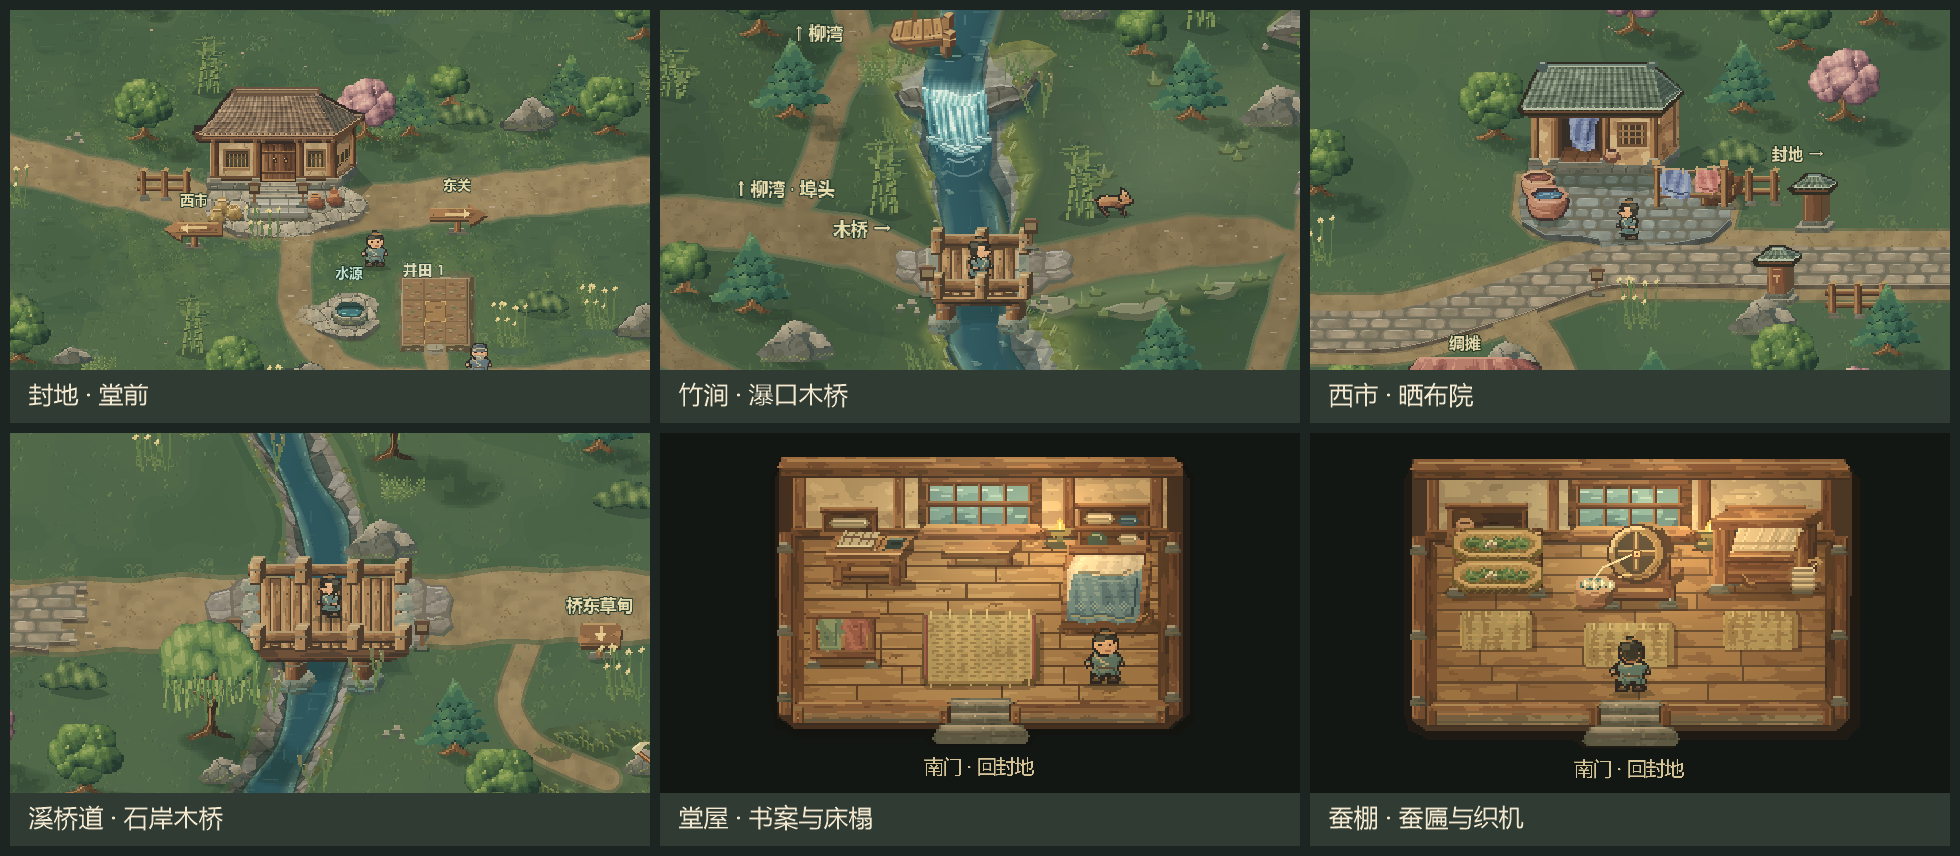
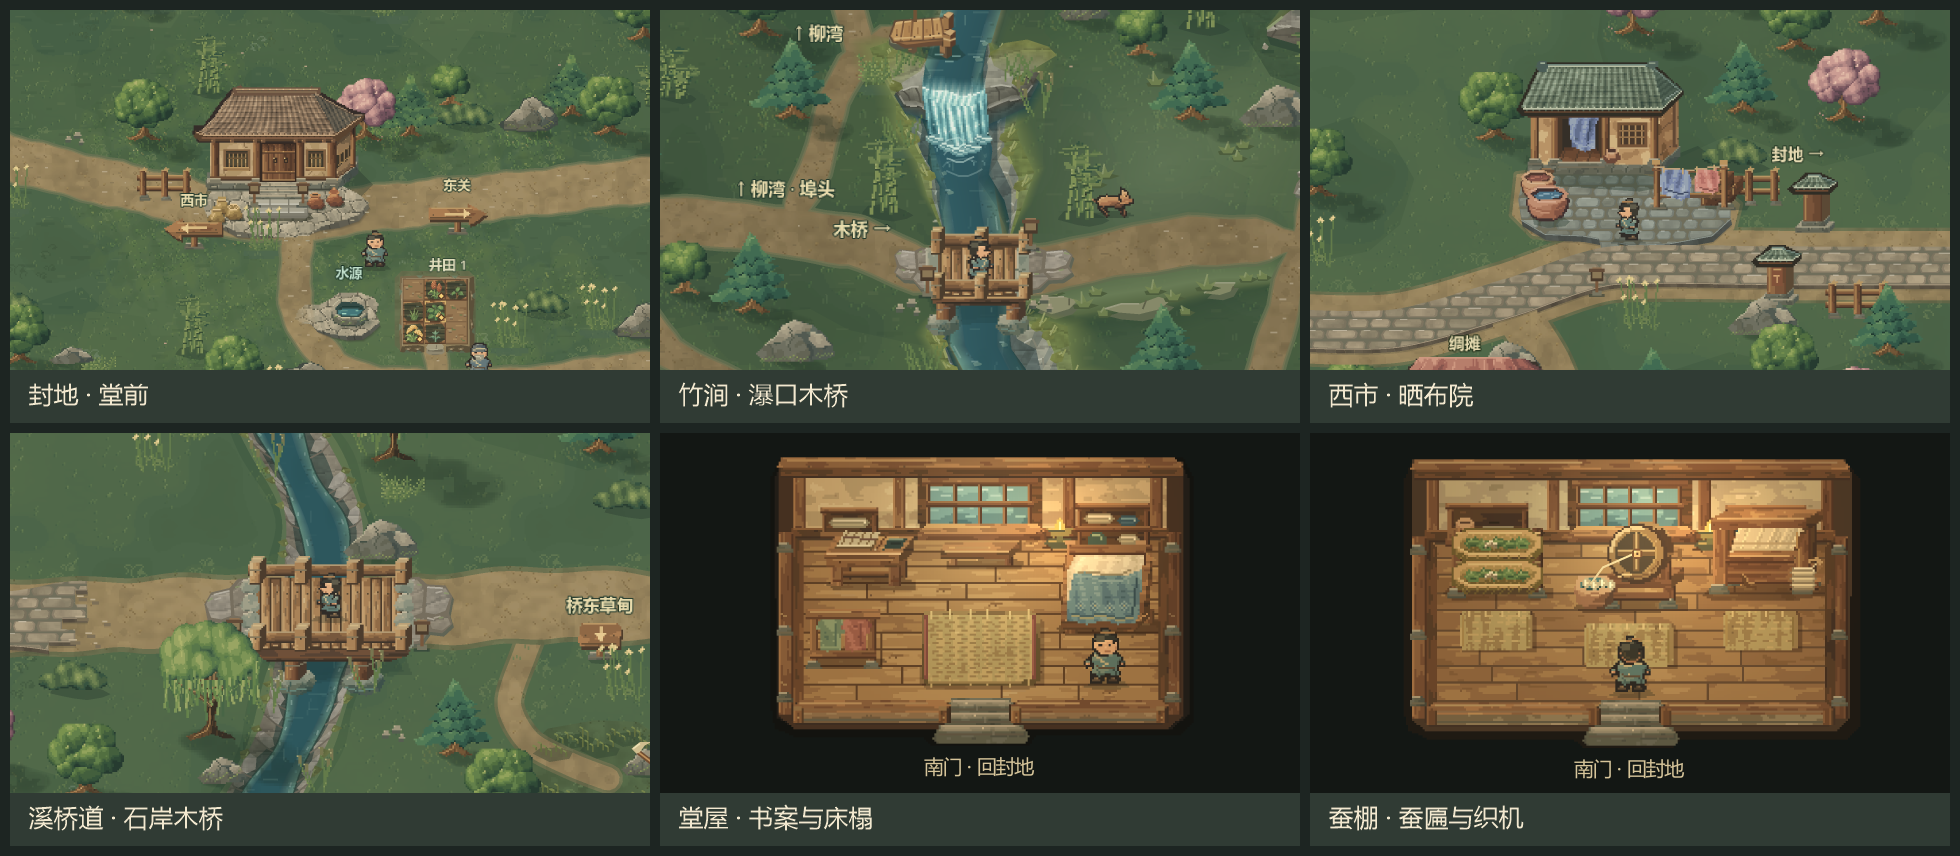
统一七种作物的田间与选种素材，调整田边标识遮挡

diff --git a/tasks/polish.md b/tasks/polish.md
@@ -15,11 +15,18 @@
 
 用竹涧木桥到望溪台的画面核对固定斜俯视。封地和市集沿用同一光向，让路肩、台阶和摆放的器物都能看出高低与落脚位置。井田继续以九格边界指示下手处，舆图以路线清楚为准，背包里的物品以小尺寸能辨认为准。 [竹涧实机样板](../build/polish-ravine-waterfall/release/verified/native-full/frames/01d-bridge-to-lookout.png)
 
+## 井田作物与田边标识
+
+- 黍的金穗弯垂，稷的红穗直立，稻叶间垂着浅色细穗，菽的两枚黄荚露在叶丛下。七种作物都能从田里认到种子说明和背包，选种栏各有一枚 16×16 图标。 [三阶段与选种栏](../docs/previews/field-crops.png)
+- 成熟、待浇、断水的符号收在每格右下角，田号靠田埂外侧。把人物放在田号前逐像素核对，1920×1080 和 1024×768 两种窗口中，田号都没有覆盖人物上身。小窗口内的游戏画面为 1024×576。 [田边实机近景](../docs/previews/field-bank.png) · [默认镜头与 HUD](../build/polish-field-art/candidate-1920x1080/frames/hud.png) · [本机像素核对](../build/polish-field-art/art-checks.json)
+- 用同一候选包重拍六处场景。六秒田间动图中，主角在空格前挥锄，渠伯提水，石墨在田东播种。镜头内保留长苗和成熟株，能同时看清农具与田埂上的字。 [六处场景](../docs/previews/six-locations.png) · [田间动图](../docs/previews/field-work.gif) · [1920×1080 原画面视频](../build/polish-field-art/field-work-1080p.mp4)
[1 lines of base64/hex data omitted]
+
 ## 人物动作与六处场景的美术预览
 
 - 林蓼在南池畔戴靛青扎巾、穿赭衣，腰边挎着竹种篮。背面能看到巾结和斜背带。秋社、亭西种圃、谷雨亭集的替补来客和冬至围炉沿用同一造型。正面和侧面的站姿保留眨眼。 [秋社近景](../docs/previews/autumn-festival.png) · [对话肖像](../docs/previews/linliao-dialogue.png)
 - 从同一个 Windows 资源包在隔离桌面按默认 1920×1080 渲染。六处场景并排看路面、建筑和器具的斜俯视。六秒动作样片取自主角、渠伯和石墨的站立、行走及农具动作，采样期间固定时钟和田格。 [六处场景](../docs/previews/six-locations.png) · [井田边的动作](../docs/previews/field-work.gif)
[2 lines of base64/hex data omitted]
 
 ## Windows 1.0 人工试玩
 

diff --git a/docs/game_design/11_美术音效需求.md b/docs/game_design/11_美术音效需求.md
@@ -228,18 +228,22 @@ Windows 版默认窗口和画面渲染分辨率为 1920×1080，画面比例为 
 
 #### 作物设计
 
-**五谷Tile**（16×16像素）：
+田里有七种作物，每种按播下、长苗、成熟三幅图显示。每幅为 32×32 纹素，栽在 16×16 的逻辑田格内。每格右下角的金菱表示可收，浅青水滴表示待浇，赭色叉表示断水。中央公田另有金角。井田编号贴着田埂，人物经过时可以挡住背后的字。
 
-| 作物 | 生长阶段 | 颜色 | 形状 |
-|------|----------|------|------|
-| 黍 | 4阶段 | 黄→金黄 | 圆粒 |
-| 稷 | 4阶段 | 淡黄→金黄 | 小圆粒 |
-| 麦 | 4阶段 | 绿→金黄 | 长穗 |
-| 菽 | 4阶段 | 绿→褐 | 豆荚 |
-| 稻 | 5阶段 | 绿→金黄 | 长粒 |
+| 作物 | 长苗 | 成熟 |
+| --- | --- | --- |
+| 黍 | 两侧舒展的宽叶 | 两束弯垂的金黄团穗 |
+| 稷 | 主茎较直，阔叶向两侧张开 | 两簇竖立的赭红穗 |
+| 稻 | 青绿色窄叶从根部扇形展开 | 细茎下垂，穗粒疏而浅黄 |
+| 麦 | 窄叶向上收拢 | 三支直立麦穗，穗顶露芒 |
+| 菽 | 一对圆叶贴近地面 | 叶丛下垂两枚黄荚 |
+| 桑 | 分叉的木质小苗 | 宽树冠下露叉枝，叶间有暗紫桑椹 |
+| 麻 | 茎直，长叶从节上分开 | 两根细长纤维茎，掌状叶分层 |
+
+背包和种子说明取田里的成熟株，选种栏用与它们对应的 16×16 图标。图集沿用本项目原作物的格序与根部位置，以 ImageGen 绘制植株参考，再按本项目色板整理轮廓、稻穗和叶影。
 
 **桑蚕**：
-- 桑树：64×64像素，绿色叶
+- 田内的桑株随生长阶段换图，收获物为桑叶。
 - 蚕：8×8像素，白色蠕虫
 - 蚕茧：12×12像素，白色椭圆
 - 丝绸：堆叠图标，白色发亮
